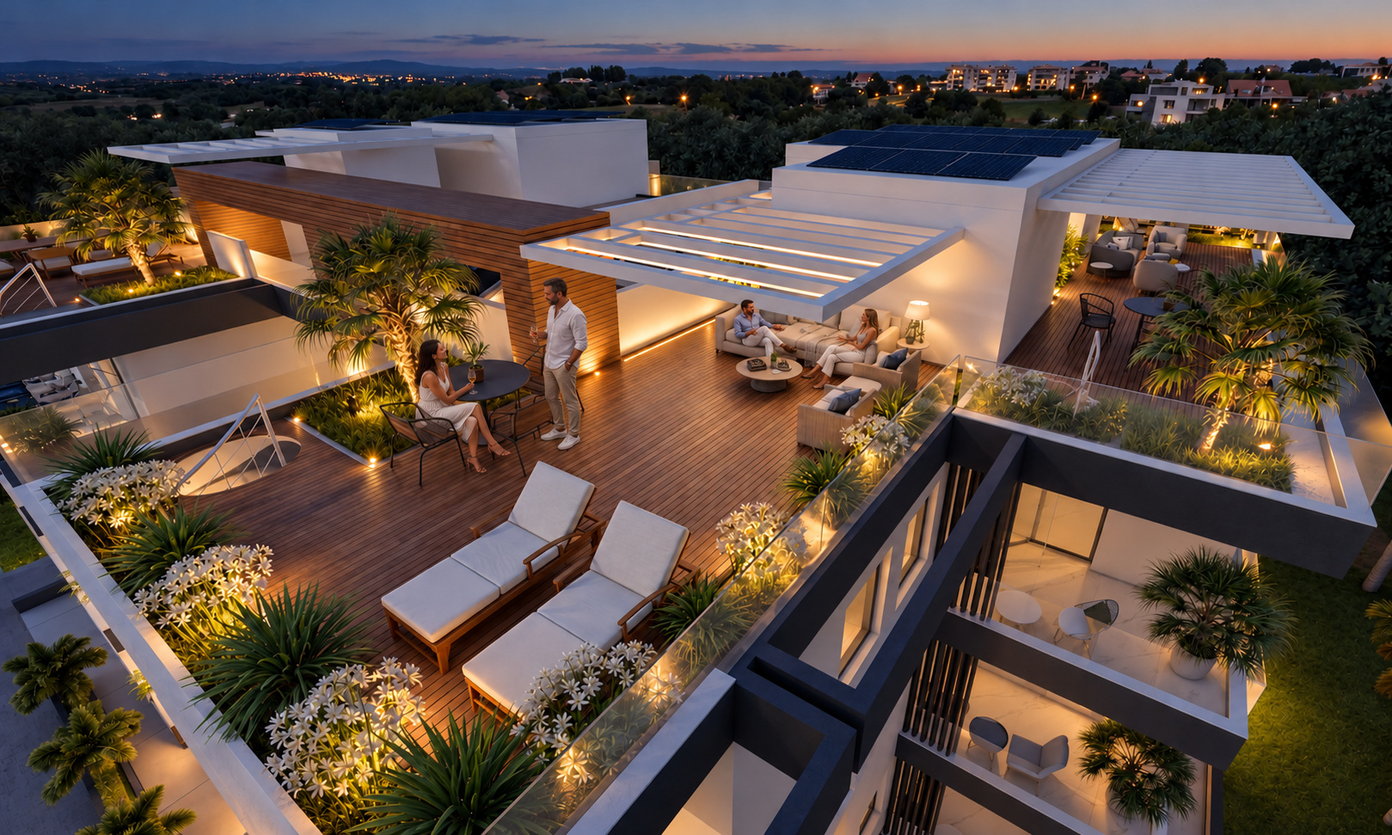
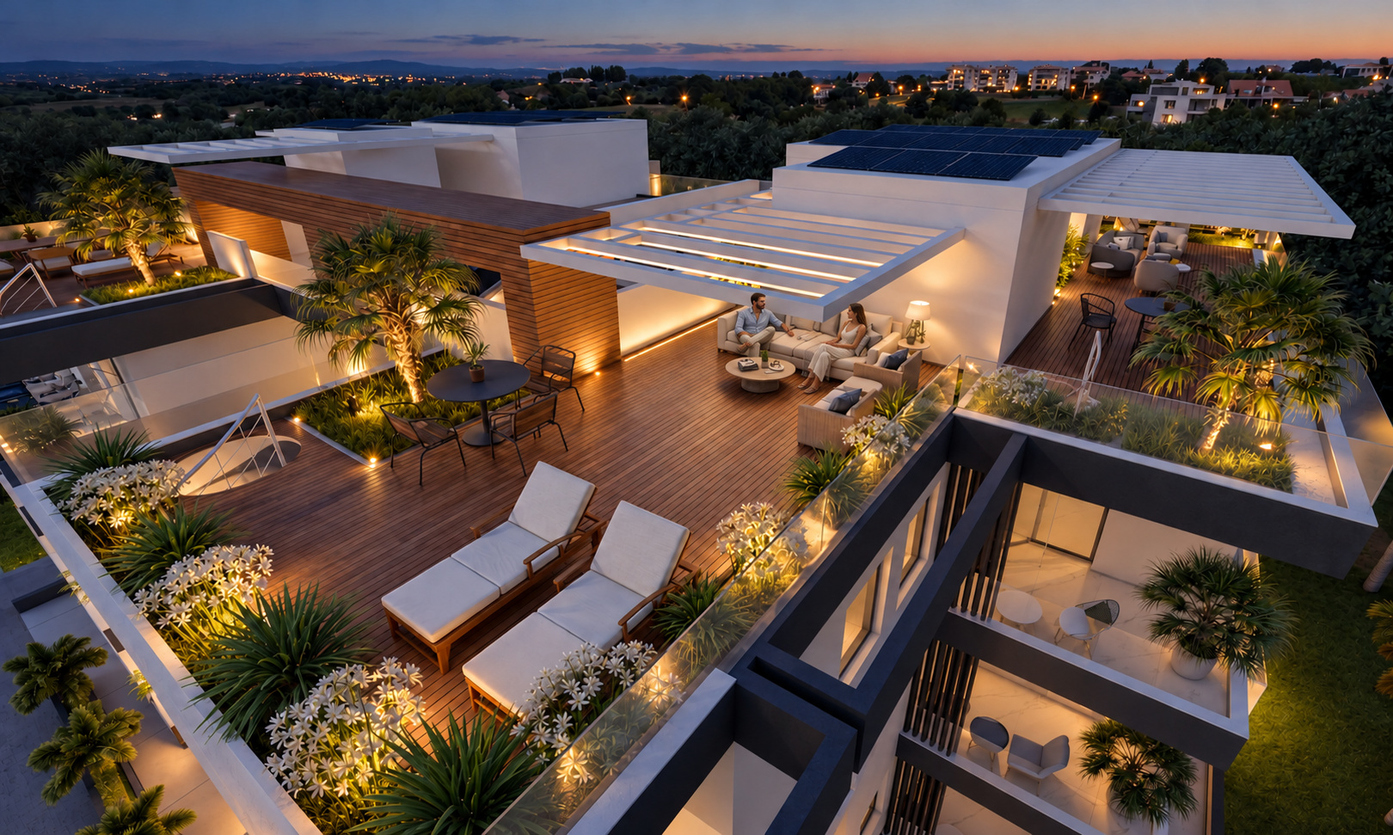
Refine ADMA roof terrace with two approved seated residents

diff --git a/apertis/owner/adma-2402/index.html b/apertis/owner/adma-2402/index.html
@@ -3,7 +3,7 @@
     <h1>ADMA 2402, seen<br>a little differently.</h1>
     <p class="intro">Two enhanced views. Three new frames. A glimpse of how your project could be presented — in images, and in one easy-to-share link.</p>
     <div class="nav-note"><span class="muted">Drag the line to compare</span><a href="#presentation">Explore the presentation idea</a></div>
-    </header><p class="owner-nav"><a href="/apertis/owner/review-2026-10-14/">Все 10 проектов</a></p><div class="cases"><figure><div class="cmp" style="--ar:1920/1023" role="slider" tabindex="0" aria-label="Frontal exterior and ADMA 2402 fence" aria-valuemin="0" aria-valuemax="100" aria-valuenow="50"><img src="/apertis/assets/261014-ten/adma-2402/01-before.webp" width="1920" height="1023" alt="Frontal exterior and ADMA 2402 fence — Original" class="cmp-img cmp-before"><img src="/apertis/assets/261014-ten/adma-2402/01-after.webp?v=3f0b83cb33d7" width="1717" height="916" alt="Frontal exterior and ADMA 2402 fence — APERTIS" class="cmp-img cmp-after"><span class="cmp-line"><span class="cmp-grip">│</span></span></div><div class="comparison-labels"><span>Original</span><span class="notranslate" translate="no">APERTIS</span></div><figcaption class="caption"><span>Frontal exterior with original ADMA 2402 fence inscription</span><a class="meta" href="/apertis/assets/261014-ten/adma-2402/01-after.jpg?v=9a7d06924ca1" download>Download <span class="notranslate" translate="no">APERTIS</span> · JPG</a></figcaption></figure><figure><div class="cmp" style="--ar:1920/1150" role="slider" tabindex="0" aria-label="Roof terrace — high-angle view" aria-valuemin="0" aria-valuemax="100" aria-valuenow="50"><img src="/apertis/assets/261014-ten/adma-2402/02-before.webp?v=dd2425661433" width="1920" height="1150" alt="Roof terrace — high-angle view — Original" class="cmp-img cmp-before"><img src="/apertis/assets/261014-ten/adma-2402/02-after.webp?v=95951a044b92" width="1619" height="971" alt="Roof terrace — high-angle view — APERTIS" class="cmp-img cmp-after"><span class="cmp-line"><span class="cmp-grip">│</span></span></div><div class="comparison-labels"><span>Original</span><span class="notranslate" translate="no">APERTIS</span></div><figcaption class="caption"><span>Roof terrace, distinct official high-angle exterior view</span><a class="meta" href="/apertis/assets/261014-ten/adma-2402/02-after.jpg?v=1c58909737aa" download>Download <span class="notranslate" translate="no">APERTIS</span> · JPG</a></figcaption></figure></div><section class="section" id="new-frames"><div class="section-head"><div><span class="section-no">01 / Beyond the main view</span><h2>More of the story.</h2></div><p>Closer frames developed from your project references. <span class="mobile-hint">Swipe to explore. </span>Open a frame for a closer look.</p></div><div class="story-grid"><button class="story" data-full="/apertis/assets/261014-ten/adma-2402/frame-01.webp" data-caption="Coffee on a palm-framed balcony in the last warm light of the day."><img src="/apertis/assets/261014-ten/adma-2402/frame-01.webp" width="1536" height="1024" alt="Coffee on a palm-framed balcony in the last warm light of the day." loading="lazy"><span>Coffee on a palm-framed balcony in the last warm light of the day.</span><small>Lifestyle study</small></button><button class="story" data-full="/apertis/assets/261014-ten/adma-2402/frame-02.webp" data-caption="Warm light brings out the grain and rhythm of the timber frontage."><img src="/apertis/assets/261014-ten/adma-2402/frame-02.webp" width="1536" height="1024" alt="Warm light brings out the grain and rhythm of the timber frontage." loading="lazy"><span>Warm light brings out the grain and rhythm of the timber frontage.</span><small>Architectural detail</small></button><button class="story" data-full="/apertis/assets/261014-ten/adma-2402/frame-03.webp" data-caption="An evening walk beside the layered planting at the street edge."><img src="/apertis/assets/261014-ten/adma-2402/frame-03.webp" width="1536" height="1024" alt="An evening walk beside the layered planting at the street edge." loading="lazy"><span>An evening walk beside the layered planting at the street edge.</span><small>Lifestyle study</small></button></div><p class="footnote">Image studies: new framings, light and everyday details. Based on the project references; final marketing use follows developer review.</p></section><section class="section" id="presentation"><div class="demo-feature"><div class="demo-copy"><span class="section-no">02 / Make the images easy to share</span><h2>One project.<br>One link to send.</h2><p>Keep images, plans and project details together under your brand. Buyers can open the whole presentation on their phone and forward it in WhatsApp.</p><a class="button" href="/apertis/owner/adma-2402/presentation/">Open the ADMA 2402 example</a><span class="meta">A working preview using existing project materials</span></div><a class="demo-window" href="/apertis/owner/adma-2402/presentation/" aria-label="Open the working ADMA 2402 project presentation"><div class="window-top"><span>ADMA Development</span><span>Project presentation</span></div><div class="window-title">ADMA 2402</div><p class="window-sub">Images · Project details</p><img src="/apertis/assets/261014-ten/adma-2402/01-after.webp?v=3f0b83cb33d7" width="1717" height="916" alt="ADMA 2402 — APERTIS" class="window-hero" loading="lazy"><div class="window-bottom"><span>Explore the spaces</span><span>Project details</span><span>Share one link</span></div></a></div></section><section class="section" id="packages"><div class="section-head"><div><span class="section-no">03 / Take the next step</span><h2>Stronger images.<br>A complete presentation.</h2></div><p>These studies are our introduction. A page for finished materials. Better images for existing sales channels. Or the complete image and presentation kit.</p></div>
+    </header><p class="owner-nav"><a href="/apertis/owner/review-2026-10-14/">Все 10 проектов</a></p><div class="cases"><figure><div class="cmp" style="--ar:1920/1023" role="slider" tabindex="0" aria-label="Frontal exterior and ADMA 2402 fence" aria-valuemin="0" aria-valuemax="100" aria-valuenow="50"><img src="/apertis/assets/261014-ten/adma-2402/01-before.webp" width="1920" height="1023" alt="Frontal exterior and ADMA 2402 fence — Original" class="cmp-img cmp-before"><img src="/apertis/assets/261014-ten/adma-2402/01-after.webp?v=3f0b83cb33d7" width="1717" height="916" alt="Frontal exterior and ADMA 2402 fence — APERTIS" class="cmp-img cmp-after"><span class="cmp-line"><span class="cmp-grip">│</span></span></div><div class="comparison-labels"><span>Original</span><span class="notranslate" translate="no">APERTIS</span></div><figcaption class="caption"><span>Frontal exterior with original ADMA 2402 fence inscription</span><a class="meta" href="/apertis/assets/261014-ten/adma-2402/01-after.jpg?v=9a7d06924ca1" download>Download <span class="notranslate" translate="no">APERTIS</span> · JPG</a></figcaption></figure><figure><div class="cmp" style="--ar:1920/1150" role="slider" tabindex="0" aria-label="Roof terrace — high-angle view" aria-valuemin="0" aria-valuemax="100" aria-valuenow="50"><img src="/apertis/assets/261014-ten/adma-2402/02-before.webp?v=dd2425661433" width="1920" height="1150" alt="Roof terrace — high-angle view — Original" class="cmp-img cmp-before"><img src="/apertis/assets/261014-ten/adma-2402/02-after.webp?v=4e8a58b8756d" width="1620" height="971" alt="Roof terrace — high-angle view — APERTIS" class="cmp-img cmp-after"><span class="cmp-line"><span class="cmp-grip">│</span></span></div><div class="comparison-labels"><span>Original</span><span class="notranslate" translate="no">APERTIS</span></div><figcaption class="caption"><span>Roof terrace, distinct official high-angle exterior view</span><a class="meta" href="/apertis/assets/261014-ten/adma-2402/02-after.jpg?v=e6a0198f6d02" download>Download <span class="notranslate" translate="no">APERTIS</span> · JPG</a></figcaption></figure></div><section class="section" id="new-frames"><div class="section-head"><div><span class="section-no">01 / Beyond the main view</span><h2>More of the story.</h2></div><p>Closer frames developed from your project references. <span class="mobile-hint">Swipe to explore. </span>Open a frame for a closer look.</p></div><div class="story-grid"><button class="story" data-full="/apertis/assets/261014-ten/adma-2402/frame-01.webp" data-caption="Coffee on a palm-framed balcony in the last warm light of the day."><img src="/apertis/assets/261014-ten/adma-2402/frame-01.webp" width="1536" height="1024" alt="Coffee on a palm-framed balcony in the last warm light of the day." loading="lazy"><span>Coffee on a palm-framed balcony in the last warm light of the day.</span><small>Lifestyle study</small></button><button class="story" data-full="/apertis/assets/261014-ten/adma-2402/frame-02.webp" data-caption="Warm light brings out the grain and rhythm of the timber frontage."><img src="/apertis/assets/261014-ten/adma-2402/frame-02.webp" width="1536" height="1024" alt="Warm light brings out the grain and rhythm of the timber frontage." loading="lazy"><span>Warm light brings out the grain and rhythm of the timber frontage.</span><small>Architectural detail</small></button><button class="story" data-full="/apertis/assets/261014-ten/adma-2402/frame-03.webp" data-caption="An evening walk beside the layered planting at the street edge."><img src="/apertis/assets/261014-ten/adma-2402/frame-03.webp" width="1536" height="1024" alt="An evening walk beside the layered planting at the street edge." loading="lazy"><span>An evening walk beside the layered planting at the street edge.</span><small>Lifestyle study</small></button></div><p class="footnote">Image studies: new framings, light and everyday details. Based on the project references; final marketing use follows developer review.</p></section><section class="section" id="presentation"><div class="demo-feature"><div class="demo-copy"><span class="section-no">02 / Make the images easy to share</span><h2>One project.<br>One link to send.</h2><p>Keep images, plans and project details together under your brand. Buyers can open the whole presentation on their phone and forward it in WhatsApp.</p><a class="button" href="/apertis/owner/adma-2402/presentation/">Open the ADMA 2402 example</a><span class="meta">A working preview using existing project materials</span></div><a class="demo-window" href="/apertis/owner/adma-2402/presentation/" aria-label="Open the working ADMA 2402 project presentation"><div class="window-top"><span>ADMA Development</span><span>Project presentation</span></div><div class="window-title">ADMA 2402</div><p class="window-sub">Images · Project details</p><img src="/apertis/assets/261014-ten/adma-2402/01-after.webp?v=3f0b83cb33d7" width="1717" height="916" alt="ADMA 2402 — APERTIS" class="window-hero" loading="lazy"><div class="window-bottom"><span>Explore the spaces</span><span>Project details</span><span>Share one link</span></div></a></div></section><section class="section" id="packages"><div class="section-head"><div><span class="section-no">03 / Take the next step</span><h2>Stronger images.<br>A complete presentation.</h2></div><p>These studies are our introduction. A page for finished materials. Better images for existing sales channels. Or the complete image and presentation kit.</p></div>
     <div class="offers">
     <article class="offer" data-offer="page"><span class="eyebrow muted">Present existing materials</span><div class="offer-top"><h3>Project page</h3><span class="price">€300</span></div><p>A branded presentation for images that are already ready.</p><ul><li>One ready-to-share project page</li><li>Up to 16 supplied images + 2 plans</li><li>Project details and sales contacts</li><li>Image enhancement is not included</li></ul><a class="button secondary" href="mailto:apertis@a510.space?subject=ADMA%202402%20%E2%80%94%20Project%20page%20%E2%80%94%20%E2%82%AC300&amp;body=Hello%20APERTIS%2C%0A%0AWe%20would%20like%20to%20request%20the%20Project%20page%20package%20%28%E2%82%AC300%29%20for%3A%0AProject%3A%0ANumber%20of%20images%20%28if%20different%20from%20the%20package%29%3A%0ALink%20to%20images%20and%20plans%3A%0ABrand%20and%20contact%20details%3A%0A%0APlease%20confirm%20source%20suitability%2C%20delivery%20date%20and%20payment%20instructions.">Create a project page</a></article>
     <article class="offer main" data-offer="images"><span class="eyebrow muted">Improve existing renders</span><div class="offer-top"><h3>Image enhancement</h3><span class="price">€900</span></div><p>10 existing views, improved with better light, materials and atmosphere. The project’s architecture stays intact.</p><ul><li>10 individually finished images</li><li>High-resolution JPGs + web copies</li><li>One consolidated correction round</li><li>Ready for existing sales channels</li></ul><p class="quantity-note">Price for 10 images. Other quantities can be agreed.</p><a class="button" href="mailto:apertis@a510.space?subject=ADMA%202402%20%E2%80%94%20Image%20enhancement%20%E2%80%94%2010%20images%20%E2%80%94%20%E2%82%AC900&amp;body=Hello%20APERTIS%2C%0A%0AWe%20would%20like%20to%20request%20the%20Image%20enhancement%20%E2%80%94%2010%20images%20package%20%28%E2%82%AC900%29%20for%3A%0AProject%3A%0ANumber%20of%20images%20%28if%20different%20from%20the%20package%29%3A%0ALink%20to%20images%20and%20plans%3A%0ABrand%20and%20contact%20details%3A%0A%0APlease%20confirm%20source%20suitability%2C%20delivery%20date%20and%20payment%20instructions.">Request image enhancement</a></article>

diff --git a/apertis/p/adma-2402/index.html b/apertis/p/adma-2402/index.html
@@ -3,7 +3,7 @@
     <h1>ADMA 2402, seen<br>a little differently.</h1>
     <p class="intro">Two enhanced views. Three new frames. A glimpse of how your project could be presented — in images, and in one easy-to-share link.</p>
     <div class="nav-note"><span class="muted">Drag the line to compare</span><a href="#presentation">Explore the presentation idea</a></div>
-    </header><div class="cases"><figure><div class="cmp" style="--ar:1920/1023" role="slider" tabindex="0" aria-label="Frontal exterior and ADMA 2402 fence" aria-valuemin="0" aria-valuemax="100" aria-valuenow="50"><img src="/apertis/assets/261014-ten/adma-2402/01-before.webp" width="1920" height="1023" alt="Frontal exterior and ADMA 2402 fence — Original" class="cmp-img cmp-before"><img src="/apertis/assets/261014-ten/adma-2402/01-after.webp?v=3f0b83cb33d7" width="1717" height="916" alt="Frontal exterior and ADMA 2402 fence — APERTIS" class="cmp-img cmp-after"><span class="cmp-line"><span class="cmp-grip">│</span></span></div><div class="comparison-labels"><span>Original</span><span class="notranslate" translate="no">APERTIS</span></div><figcaption class="caption"><span>Frontal exterior with original ADMA 2402 fence inscription</span><a class="meta" href="/apertis/assets/261014-ten/adma-2402/01-after.jpg?v=9a7d06924ca1" download>Download <span class="notranslate" translate="no">APERTIS</span> · JPG</a></figcaption></figure><figure><div class="cmp" style="--ar:1920/1150" role="slider" tabindex="0" aria-label="Roof terrace — high-angle view" aria-valuemin="0" aria-valuemax="100" aria-valuenow="50"><img src="/apertis/assets/261014-ten/adma-2402/02-before.webp?v=dd2425661433" width="1920" height="1150" alt="Roof terrace — high-angle view — Original" class="cmp-img cmp-before"><img src="/apertis/assets/261014-ten/adma-2402/02-after.webp?v=95951a044b92" width="1619" height="971" alt="Roof terrace — high-angle view — APERTIS" class="cmp-img cmp-after"><span class="cmp-line"><span class="cmp-grip">│</span></span></div><div class="comparison-labels"><span>Original</span><span class="notranslate" translate="no">APERTIS</span></div><figcaption class="caption"><span>Roof terrace, distinct official high-angle exterior view</span><a class="meta" href="/apertis/assets/261014-ten/adma-2402/02-after.jpg?v=1c58909737aa" download>Download <span class="notranslate" translate="no">APERTIS</span> · JPG</a></figcaption></figure></div><section class="section" id="new-frames"><div class="section-head"><div><span class="section-no">01 / Beyond the main view</span><h2>More of the story.</h2></div><p>Closer frames developed from your project references. <span class="mobile-hint">Swipe to explore. </span>Open a frame for a closer look.</p></div><div class="story-grid"><button class="story" data-full="/apertis/assets/261014-ten/adma-2402/frame-01.webp" data-caption="Coffee on a palm-framed balcony in the last warm light of the day."><img src="/apertis/assets/261014-ten/adma-2402/frame-01.webp" width="1536" height="1024" alt="Coffee on a palm-framed balcony in the last warm light of the day." loading="lazy"><span>Coffee on a palm-framed balcony in the last warm light of the day.</span><small>Lifestyle study</small></button><button class="story" data-full="/apertis/assets/261014-ten/adma-2402/frame-02.webp" data-caption="Warm light brings out the grain and rhythm of the timber frontage."><img src="/apertis/assets/261014-ten/adma-2402/frame-02.webp" width="1536" height="1024" alt="Warm light brings out the grain and rhythm of the timber frontage." loading="lazy"><span>Warm light brings out the grain and rhythm of the timber frontage.</span><small>Architectural detail</small></button><button class="story" data-full="/apertis/assets/261014-ten/adma-2402/frame-03.webp" data-caption="An evening walk beside the layered planting at the street edge."><img src="/apertis/assets/261014-ten/adma-2402/frame-03.webp" width="1536" height="1024" alt="An evening walk beside the layered planting at the street edge." loading="lazy"><span>An evening walk beside the layered planting at the street edge.</span><small>Lifestyle study</small></button></div><p class="footnote">Image studies: new framings, light and everyday details. Based on the project references; final marketing use follows developer review.</p></section><section class="section" id="presentation"><div class="demo-feature"><div class="demo-copy"><span class="section-no">02 / Make the images easy to share</span><h2>One project.<br>One link to send.</h2><p>Keep images, plans and project details together under your brand. Buyers can open the whole presentation on their phone and forward it in WhatsApp.</p><a class="button" href="/apertis/p/adma-2402/presentation/">Open the ADMA 2402 example</a><span class="meta">A working preview using existing project materials</span></div><a class="demo-window" href="/apertis/p/adma-2402/presentation/" aria-label="Open the working ADMA 2402 project presentation"><div class="window-top"><span>ADMA Development</span><span>Project presentation</span></div><div class="window-title">ADMA 2402</div><p class="window-sub">Images · Project details</p><img src="/apertis/assets/261014-ten/adma-2402/01-after.webp?v=3f0b83cb33d7" width="1717" height="916" alt="ADMA 2402 — APERTIS" class="window-hero" loading="lazy"><div class="window-bottom"><span>Explore the spaces</span><span>Project details</span><span>Share one link</span></div></a></div></section><section class="section" id="packages"><div class="section-head"><div><span class="section-no">03 / Take the next step</span><h2>Stronger images.<br>A complete presentation.</h2></div><p>These studies are our introduction. A page for finished materials. Better images for existing sales channels. Or the complete image and presentation kit.</p></div>
+    </header><div class="cases"><figure><div class="cmp" style="--ar:1920/1023" role="slider" tabindex="0" aria-label="Frontal exterior and ADMA 2402 fence" aria-valuemin="0" aria-valuemax="100" aria-valuenow="50"><img src="/apertis/assets/261014-ten/adma-2402/01-before.webp" width="1920" height="1023" alt="Frontal exterior and ADMA 2402 fence — Original" class="cmp-img cmp-before"><img src="/apertis/assets/261014-ten/adma-2402/01-after.webp?v=3f0b83cb33d7" width="1717" height="916" alt="Frontal exterior and ADMA 2402 fence — APERTIS" class="cmp-img cmp-after"><span class="cmp-line"><span class="cmp-grip">│</span></span></div><div class="comparison-labels"><span>Original</span><span class="notranslate" translate="no">APERTIS</span></div><figcaption class="caption"><span>Frontal exterior with original ADMA 2402 fence inscription</span><a class="meta" href="/apertis/assets/261014-ten/adma-2402/01-after.jpg?v=9a7d06924ca1" download>Download <span class="notranslate" translate="no">APERTIS</span> · JPG</a></figcaption></figure><figure><div class="cmp" style="--ar:1920/1150" role="slider" tabindex="0" aria-label="Roof terrace — high-angle view" aria-valuemin="0" aria-valuemax="100" aria-valuenow="50"><img src="/apertis/assets/261014-ten/adma-2402/02-before.webp?v=dd2425661433" width="1920" height="1150" alt="Roof terrace — high-angle view — Original" class="cmp-img cmp-before"><img src="/apertis/assets/261014-ten/adma-2402/02-after.webp?v=4e8a58b8756d" width="1620" height="971" alt="Roof terrace — high-angle view — APERTIS" class="cmp-img cmp-after"><span class="cmp-line"><span class="cmp-grip">│</span></span></div><div class="comparison-labels"><span>Original</span><span class="notranslate" translate="no">APERTIS</span></div><figcaption class="caption"><span>Roof terrace, distinct official high-angle exterior view</span><a class="meta" href="/apertis/assets/261014-ten/adma-2402/02-after.jpg?v=e6a0198f6d02" download>Download <span class="notranslate" translate="no">APERTIS</span> · JPG</a></figcaption></figure></div><section class="section" id="new-frames"><div class="section-head"><div><span class="section-no">01 / Beyond the main view</span><h2>More of the story.</h2></div><p>Closer frames developed from your project references. <span class="mobile-hint">Swipe to explore. </span>Open a frame for a closer look.</p></div><div class="story-grid"><button class="story" data-full="/apertis/assets/261014-ten/adma-2402/frame-01.webp" data-caption="Coffee on a palm-framed balcony in the last warm light of the day."><img src="/apertis/assets/261014-ten/adma-2402/frame-01.webp" width="1536" height="1024" alt="Coffee on a palm-framed balcony in the last warm light of the day." loading="lazy"><span>Coffee on a palm-framed balcony in the last warm light of the day.</span><small>Lifestyle study</small></button><button class="story" data-full="/apertis/assets/261014-ten/adma-2402/frame-02.webp" data-caption="Warm light brings out the grain and rhythm of the timber frontage."><img src="/apertis/assets/261014-ten/adma-2402/frame-02.webp" width="1536" height="1024" alt="Warm light brings out the grain and rhythm of the timber frontage." loading="lazy"><span>Warm light brings out the grain and rhythm of the timber frontage.</span><small>Architectural detail</small></button><button class="story" data-full="/apertis/assets/261014-ten/adma-2402/frame-03.webp" data-caption="An evening walk beside the layered planting at the street edge."><img src="/apertis/assets/261014-ten/adma-2402/frame-03.webp" width="1536" height="1024" alt="An evening walk beside the layered planting at the street edge." loading="lazy"><span>An evening walk beside the layered planting at the street edge.</span><small>Lifestyle study</small></button></div><p class="footnote">Image studies: new framings, light and everyday details. Based on the project references; final marketing use follows developer review.</p></section><section class="section" id="presentation"><div class="demo-feature"><div class="demo-copy"><span class="section-no">02 / Make the images easy to share</span><h2>One project.<br>One link to send.</h2><p>Keep images, plans and project details together under your brand. Buyers can open the whole presentation on their phone and forward it in WhatsApp.</p><a class="button" href="/apertis/p/adma-2402/presentation/">Open the ADMA 2402 example</a><span class="meta">A working preview using existing project materials</span></div><a class="demo-window" href="/apertis/p/adma-2402/presentation/" aria-label="Open the working ADMA 2402 project presentation"><div class="window-top"><span>ADMA Development</span><span>Project presentation</span></div><div class="window-title">ADMA 2402</div><p class="window-sub">Images · Project details</p><img src="/apertis/assets/261014-ten/adma-2402/01-after.webp?v=3f0b83cb33d7" width="1717" height="916" alt="ADMA 2402 — APERTIS" class="window-hero" loading="lazy"><div class="window-bottom"><span>Explore the spaces</span><span>Project details</span><span>Share one link</span></div></a></div></section><section class="section" id="packages"><div class="section-head"><div><span class="section-no">03 / Take the next step</span><h2>Stronger images.<br>A complete presentation.</h2></div><p>These studies are our introduction. A page for finished materials. Better images for existing sales channels. Or the complete image and presentation kit.</p></div>
     <div class="offers">
     <article class="offer" data-offer="page"><span class="eyebrow muted">Present existing materials</span><div class="offer-top"><h3>Project page</h3><span class="price">€300</span></div><p>A branded presentation for images that are already ready.</p><ul><li>One ready-to-share project page</li><li>Up to 16 supplied images + 2 plans</li><li>Project details and sales contacts</li><li>Image enhancement is not included</li></ul><a class="button secondary" href="mailto:apertis@a510.space?subject=ADMA%202402%20%E2%80%94%20Project%20page%20%E2%80%94%20%E2%82%AC300&amp;body=Hello%20APERTIS%2C%0A%0AWe%20would%20like%20to%20request%20the%20Project%20page%20package%20%28%E2%82%AC300%29%20for%3A%0AProject%3A%0ANumber%20of%20images%20%28if%20different%20from%20the%20package%29%3A%0ALink%20to%20images%20and%20plans%3A%0ABrand%20and%20contact%20details%3A%0A%0APlease%20confirm%20source%20suitability%2C%20delivery%20date%20and%20payment%20instructions.">Create a project page</a></article>
     <article class="offer main" data-offer="images"><span class="eyebrow muted">Improve existing renders</span><div class="offer-top"><h3>Image enhancement</h3><span class="price">€900</span></div><p>10 existing views, improved with better light, materials and atmosphere. The project’s architecture stays intact.</p><ul><li>10 individually finished images</li><li>High-resolution JPGs + web copies</li><li>One consolidated correction round</li><li>Ready for existing sales channels</li></ul><p class="quantity-note">Price for 10 images. Other quantities can be agreed.</p><a class="button" href="mailto:apertis@a510.space?subject=ADMA%202402%20%E2%80%94%20Image%20enhancement%20%E2%80%94%2010%20images%20%E2%80%94%20%E2%82%AC900&amp;body=Hello%20APERTIS%2C%0A%0AWe%20would%20like%20to%20request%20the%20Image%20enhancement%20%E2%80%94%2010%20images%20package%20%28%E2%82%AC900%29%20for%3A%0AProject%3A%0ANumber%20of%20images%20%28if%20different%20from%20the%20package%29%3A%0ALink%20to%20images%20and%20plans%3A%0ABrand%20and%20contact%20details%3A%0A%0APlease%20confirm%20source%20suitability%2C%20delivery%20date%20and%20payment%20instructions.">Request image enhancement</a></article>

diff --git a/apertis/owner/adma-2402/presentation/index.html b/apertis/owner/adma-2402/presentation/index.html
@@ -1,1 +1,1 @@
-<!doctype html><html lang="en"><head><meta charset="utf-8"><meta name="viewport" content="width=device-width,initial-scale=1"><meta name="robots" content="noindex,nofollow"><meta http-equiv="Content-Security-Policy" content="default-src 'none'; img-src 'self'; style-src 'self' 'unsafe-inline'; script-src 'self'; connect-src 'none'; base-uri 'none'; form-action 'none'"><title>ADMA 2402 — presentation example | APERTIS</title><link rel="icon" href="/favicon.ico"><link rel="icon" href="/icon.svg" type="image/svg+xml"><link rel="stylesheet" href="/apertis/assets/261014-ten/full-design.css"></head><body><div class="demo-badge">Presentation example · Not a live sales listing <a href="/apertis/owner/adma-2402/">Back to the <span class="notranslate" translate="no">APERTIS</span> proposal</a></div><div class="page"><header class="buyer-head"><div class="rule"><span class="buyer-brand">ADMA Development</span><nav class="buyer-nav"><a href="#spaces">Images</a><a href="#details">Details</a></nav></div><h1>ADMA 2402</h1><p class="intro">Larnaca</p></header><img src="/apertis/assets/261014-ten/adma-2402/01-after.webp?v=3f0b83cb33d7" width="1717" height="916" alt="ADMA 2402 — APERTIS" class="buyer-hero"><div class="buyer-intro"><p>ADMA 2402 is an 18-home residential development in Larnaca. These views show the street-facing elevation and a separate high-angle view of the roof terrace.</p></div><section class="section" id="spaces"><div class="section-head"><div><span class="section-no">01 / The project in images</span><h2>Explore the spaces.</h2></div><p><span class="notranslate" translate="no">APERTIS</span> AI-enhanced views based on the developer’s project gallery.</p></div><div class="buyer-gallery"><figure><img src="/apertis/assets/261014-ten/adma-2402/01-after.webp?v=3f0b83cb33d7" width="1717" height="916" alt="Frontal exterior and ADMA 2402 fence" loading="lazy"><figcaption>Frontal exterior and ADMA 2402 fence · <span class="notranslate" translate="no">APERTIS</span> AI-enhanced study</figcaption></figure><figure><img src="/apertis/assets/261014-ten/adma-2402/02-after.webp?v=95951a044b92" width="1619" height="971" alt="Roof terrace — high-angle view" loading="lazy"><figcaption>Roof terrace — high-angle view · <span class="notranslate" translate="no">APERTIS</span> AI-enhanced study</figcaption></figure></div></section><section class="section" id="details"><div class="section-head"><div><span class="section-no">02 / Project details</span><h2>Larnaca</h2></div><p>The supplied official project research records construction in progress and an advertised January 2027 delivery target. Nine homes were available, one reserved and eight sold at that check. These figures are not a live inventory. Research supplied for this review; source recheck attempted 2026-10-14. Current availability and dates require developer confirmation.</p></div><a href="https://admadevelopment.com/current-project" target="_blank" rel="noopener">View the official project information</a></section><section class="section" id="share"><div class="section-head"><div><span class="section-no">03 / One link</span><h2>Keep the presentation together.</h2></div><p>A published presentation brings images, project details, supplied plans and sales contacts into one link that can be forwarded in WhatsApp.</p></div><p class="footnote">This is an independent <span class="notranslate" translate="no">APERTIS</span> example, not an approved developer campaign. Enquiries are disabled.</p></section><div class="contact-demo"><span class="eyebrow">Your sales contact, in the same place</span><p>This example is not accepting enquiries. A commissioned presentation includes the contact details and enquiry links you approve.</p></div><footer><div class="footer-row"><span>ADMA Development / ADMA 2402</span><a href="/apertis/owner/adma-2402/">Presentation by <span class="notranslate" translate="no">APERTIS</span></a></div><p>Independent demonstration using <span class="notranslate" translate="no">APERTIS</span> AI-enhanced studies based on original project materials. These are visualisations, not photographs of completed buildings. Images and plans belong to their respective rights holders. Not an approved campaign.</p></footer></div><script src="/apertis/assets/261014-ten/full-design.js"></script></body></html>
+<!doctype html><html lang="en"><head><meta charset="utf-8"><meta name="viewport" content="width=device-width,initial-scale=1"><meta name="robots" content="noindex,nofollow"><meta http-equiv="Content-Security-Policy" content="default-src 'none'; img-src 'self'; style-src 'self' 'unsafe-inline'; script-src 'self'; connect-src 'none'; base-uri 'none'; form-action 'none'"><title>ADMA 2402 — presentation example | APERTIS</title><link rel="icon" href="/favicon.ico"><link rel="icon" href="/icon.svg" type="image/svg+xml"><link rel="stylesheet" href="/apertis/assets/261014-ten/full-design.css"></head><body><div class="demo-badge">Presentation example · Not a live sales listing <a href="/apertis/owner/adma-2402/">Back to the <span class="notranslate" translate="no">APERTIS</span> proposal</a></div><div class="page"><header class="buyer-head"><div class="rule"><span class="buyer-brand">ADMA Development</span><nav class="buyer-nav"><a href="#spaces">Images</a><a href="#details">Details</a></nav></div><h1>ADMA 2402</h1><p class="intro">Larnaca</p></header><img src="/apertis/assets/261014-ten/adma-2402/01-after.webp?v=3f0b83cb33d7" width="1717" height="916" alt="ADMA 2402 — APERTIS" class="buyer-hero"><div class="buyer-intro"><p>ADMA 2402 is an 18-home residential development in Larnaca. These views show the street-facing elevation and a separate high-angle view of the roof terrace.</p></div><section class="section" id="spaces"><div class="section-head"><div><span class="section-no">01 / The project in images</span><h2>Explore the spaces.</h2></div><p><span class="notranslate" translate="no">APERTIS</span> AI-enhanced views based on the developer’s project gallery.</p></div><div class="buyer-gallery"><figure><img src="/apertis/assets/261014-ten/adma-2402/01-after.webp?v=3f0b83cb33d7" width="1717" height="916" alt="Frontal exterior and ADMA 2402 fence" loading="lazy"><figcaption>Frontal exterior and ADMA 2402 fence · <span class="notranslate" translate="no">APERTIS</span> AI-enhanced study</figcaption></figure><figure><img src="/apertis/assets/261014-ten/adma-2402/02-after.webp?v=4e8a58b8756d" width="1620" height="971" alt="Roof terrace — high-angle view" loading="lazy"><figcaption>Roof terrace — high-angle view · <span class="notranslate" translate="no">APERTIS</span> AI-enhanced study</figcaption></figure></div></section><section class="section" id="details"><div class="section-head"><div><span class="section-no">02 / Project details</span><h2>Larnaca</h2></div><p>The supplied official project research records construction in progress and an advertised January 2027 delivery target. Nine homes were available, one reserved and eight sold at that check. These figures are not a live inventory. Research supplied for this review; source recheck attempted 2026-10-14. Current availability and dates require developer confirmation.</p></div><a href="https://admadevelopment.com/current-project" target="_blank" rel="noopener">View the official project information</a></section><section class="section" id="share"><div class="section-head"><div><span class="section-no">03 / One link</span><h2>Keep the presentation together.</h2></div><p>A published presentation brings images, project details, supplied plans and sales contacts into one link that can be forwarded in WhatsApp.</p></div><p class="footnote">This is an independent <span class="notranslate" translate="no">APERTIS</span> example, not an approved developer campaign. Enquiries are disabled.</p></section><div class="contact-demo"><span class="eyebrow">Your sales contact, in the same place</span><p>This example is not accepting enquiries. A commissioned presentation includes the contact details and enquiry links you approve.</p></div><footer><div class="footer-row"><span>ADMA Development / ADMA 2402</span><a href="/apertis/owner/adma-2402/">Presentation by <span class="notranslate" translate="no">APERTIS</span></a></div><p>Independent demonstration using <span class="notranslate" translate="no">APERTIS</span> AI-enhanced studies based on original project materials. These are visualisations, not photographs of completed buildings. Images and plans belong to their respective rights holders. Not an approved campaign.</p></footer></div><script src="/apertis/assets/261014-ten/full-design.js"></script></body></html>

diff --git a/apertis/p/adma-2402/presentation/index.html b/apertis/p/adma-2402/presentation/index.html
@@ -1,1 +1,1 @@
-<!doctype html><html lang="en"><head><meta charset="utf-8"><meta name="viewport" content="width=device-width,initial-scale=1"><meta name="robots" content="noindex,nofollow"><meta http-equiv="Content-Security-Policy" content="default-src 'none'; img-src 'self'; style-src 'self' 'unsafe-inline'; script-src 'self'; connect-src 'none'; base-uri 'none'; form-action 'none'"><title>ADMA 2402 — presentation example | APERTIS</title><link rel="icon" href="/favicon.ico"><link rel="icon" href="/icon.svg" type="image/svg+xml"><link rel="stylesheet" href="/apertis/assets/261014-ten/full-design.css"></head><body><div class="demo-badge">Presentation example · Not a live sales listing <a href="/apertis/p/adma-2402/">Back to the <span class="notranslate" translate="no">APERTIS</span> proposal</a></div><div class="page"><header class="buyer-head"><div class="rule"><span class="buyer-brand">ADMA Development</span><nav class="buyer-nav"><a href="#spaces">Images</a><a href="#details">Details</a></nav></div><h1>ADMA 2402</h1><p class="intro">Larnaca</p></header><img src="/apertis/assets/261014-ten/adma-2402/01-after.webp?v=3f0b83cb33d7" width="1717" height="916" alt="ADMA 2402 — APERTIS" class="buyer-hero"><div class="buyer-intro"><p>ADMA 2402 is an 18-home residential development in Larnaca. These views show the street-facing elevation and a separate high-angle view of the roof terrace.</p></div><section class="section" id="spaces"><div class="section-head"><div><span class="section-no">01 / The project in images</span><h2>Explore the spaces.</h2></div><p><span class="notranslate" translate="no">APERTIS</span> AI-enhanced views based on the developer’s project gallery.</p></div><div class="buyer-gallery"><figure><img src="/apertis/assets/261014-ten/adma-2402/01-after.webp?v=3f0b83cb33d7" width="1717" height="916" alt="Frontal exterior and ADMA 2402 fence" loading="lazy"><figcaption>Frontal exterior and ADMA 2402 fence · <span class="notranslate" translate="no">APERTIS</span> AI-enhanced study</figcaption></figure><figure><img src="/apertis/assets/261014-ten/adma-2402/02-after.webp?v=95951a044b92" width="1619" height="971" alt="Roof terrace — high-angle view" loading="lazy"><figcaption>Roof terrace — high-angle view · <span class="notranslate" translate="no">APERTIS</span> AI-enhanced study</figcaption></figure></div></section><section class="section" id="details"><div class="section-head"><div><span class="section-no">02 / Project details</span><h2>Larnaca</h2></div><p>The supplied official project research records construction in progress and an advertised January 2027 delivery target. Nine homes were available, one reserved and eight sold at that check. These figures are not a live inventory. Research supplied for this review; source recheck attempted 2026-10-14. Current availability and dates require developer confirmation.</p></div><a href="https://admadevelopment.com/current-project" target="_blank" rel="noopener">View the official project information</a></section><section class="section" id="share"><div class="section-head"><div><span class="section-no">03 / One link</span><h2>Keep the presentation together.</h2></div><p>A published presentation brings images, project details, supplied plans and sales contacts into one link that can be forwarded in WhatsApp.</p></div><p class="footnote">This is an independent <span class="notranslate" translate="no">APERTIS</span> example, not an approved developer campaign. Enquiries are disabled.</p></section><div class="contact-demo"><span class="eyebrow">Your sales contact, in the same place</span><p>This example is not accepting enquiries. A commissioned presentation includes the contact details and enquiry links you approve.</p></div><footer><div class="footer-row"><span>ADMA Development / ADMA 2402</span><a href="/apertis/p/adma-2402/">Presentation by <span class="notranslate" translate="no">APERTIS</span></a></div><p>Independent demonstration using <span class="notranslate" translate="no">APERTIS</span> AI-enhanced studies based on original project materials. These are visualisations, not photographs of completed buildings. Images and plans belong to their respective rights holders. Not an approved campaign.</p></footer></div><script src="/apertis/assets/261014-ten/full-design.js"></script></body></html>
+<!doctype html><html lang="en"><head><meta charset="utf-8"><meta name="viewport" content="width=device-width,initial-scale=1"><meta name="robots" content="noindex,nofollow"><meta http-equiv="Content-Security-Policy" content="default-src 'none'; img-src 'self'; style-src 'self' 'unsafe-inline'; script-src 'self'; connect-src 'none'; base-uri 'none'; form-action 'none'"><title>ADMA 2402 — presentation example | APERTIS</title><link rel="icon" href="/favicon.ico"><link rel="icon" href="/icon.svg" type="image/svg+xml"><link rel="stylesheet" href="/apertis/assets/261014-ten/full-design.css"></head><body><div class="demo-badge">Presentation example · Not a live sales listing <a href="/apertis/p/adma-2402/">Back to the <span class="notranslate" translate="no">APERTIS</span> proposal</a></div><div class="page"><header class="buyer-head"><div class="rule"><span class="buyer-brand">ADMA Development</span><nav class="buyer-nav"><a href="#spaces">Images</a><a href="#details">Details</a></nav></div><h1>ADMA 2402</h1><p class="intro">Larnaca</p></header><img src="/apertis/assets/261014-ten/adma-2402/01-after.webp?v=3f0b83cb33d7" width="1717" height="916" alt="ADMA 2402 — APERTIS" class="buyer-hero"><div class="buyer-intro"><p>ADMA 2402 is an 18-home residential development in Larnaca. These views show the street-facing elevation and a separate high-angle view of the roof terrace.</p></div><section class="section" id="spaces"><div class="section-head"><div><span class="section-no">01 / The project in images</span><h2>Explore the spaces.</h2></div><p><span class="notranslate" translate="no">APERTIS</span> AI-enhanced views based on the developer’s project gallery.</p></div><div class="buyer-gallery"><figure><img src="/apertis/assets/261014-ten/adma-2402/01-after.webp?v=3f0b83cb33d7" width="1717" height="916" alt="Frontal exterior and ADMA 2402 fence" loading="lazy"><figcaption>Frontal exterior and ADMA 2402 fence · <span class="notranslate" translate="no">APERTIS</span> AI-enhanced study</figcaption></figure><figure><img src="/apertis/assets/261014-ten/adma-2402/02-after.webp?v=4e8a58b8756d" width="1620" height="971" alt="Roof terrace — high-angle view" loading="lazy"><figcaption>Roof terrace — high-angle view · <span class="notranslate" translate="no">APERTIS</span> AI-enhanced study</figcaption></figure></div></section><section class="section" id="details"><div class="section-head"><div><span class="section-no">02 / Project details</span><h2>Larnaca</h2></div><p>The supplied official project research records construction in progress and an advertised January 2027 delivery target. Nine homes were available, one reserved and eight sold at that check. These figures are not a live inventory. Research supplied for this review; source recheck attempted 2026-10-14. Current availability and dates require developer confirmation.</p></div><a href="https://admadevelopment.com/current-project" target="_blank" rel="noopener">View the official project information</a></section><section class="section" id="share"><div class="section-head"><div><span class="section-no">03 / One link</span><h2>Keep the presentation together.</h2></div><p>A published presentation brings images, project details, supplied plans and sales contacts into one link that can be forwarded in WhatsApp.</p></div><p class="footnote">This is an independent <span class="notranslate" translate="no">APERTIS</span> example, not an approved developer campaign. Enquiries are disabled.</p></section><div class="contact-demo"><span class="eyebrow">Your sales contact, in the same place</span><p>This example is not accepting enquiries. A commissioned presentation includes the contact details and enquiry links you approve.</p></div><footer><div class="footer-row"><span>ADMA Development / ADMA 2402</span><a href="/apertis/p/adma-2402/">Presentation by <span class="notranslate" translate="no">APERTIS</span></a></div><p>Independent demonstration using <span class="notranslate" translate="no">APERTIS</span> AI-enhanced studies based on original project materials. These are visualisations, not photographs of completed buildings. Images and plans belong to their respective rights holders. Not an approved campaign.</p></footer></div><script src="/apertis/assets/261014-ten/full-design.js"></script></body></html>
